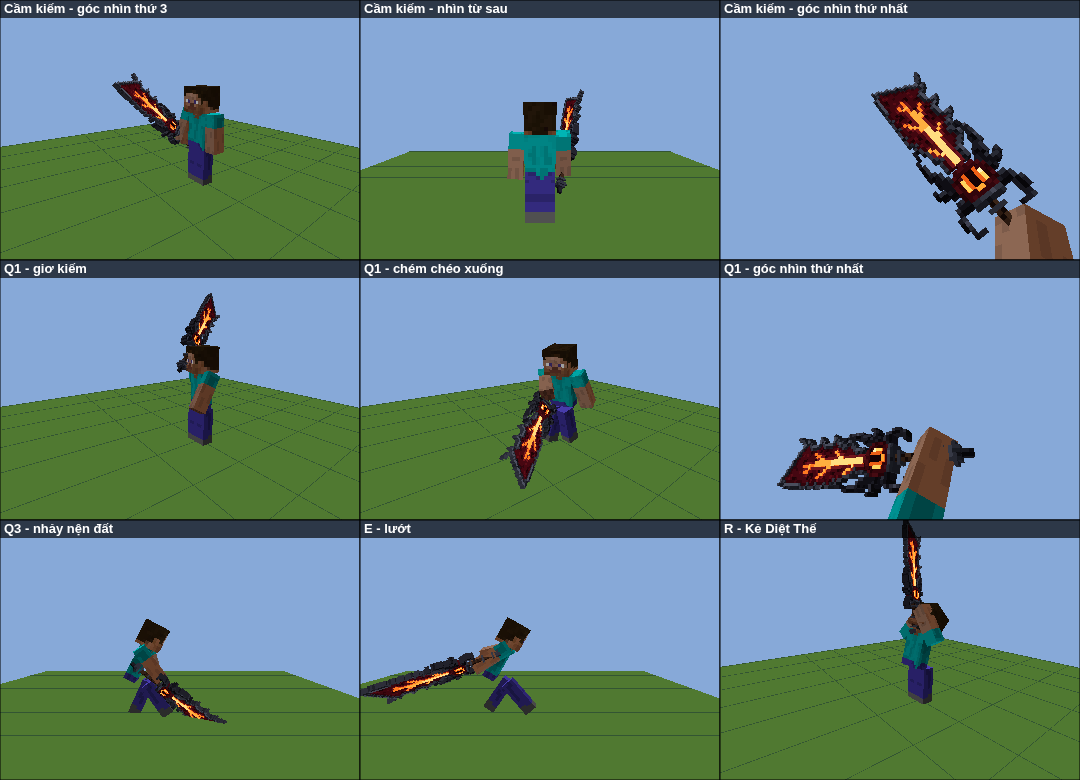
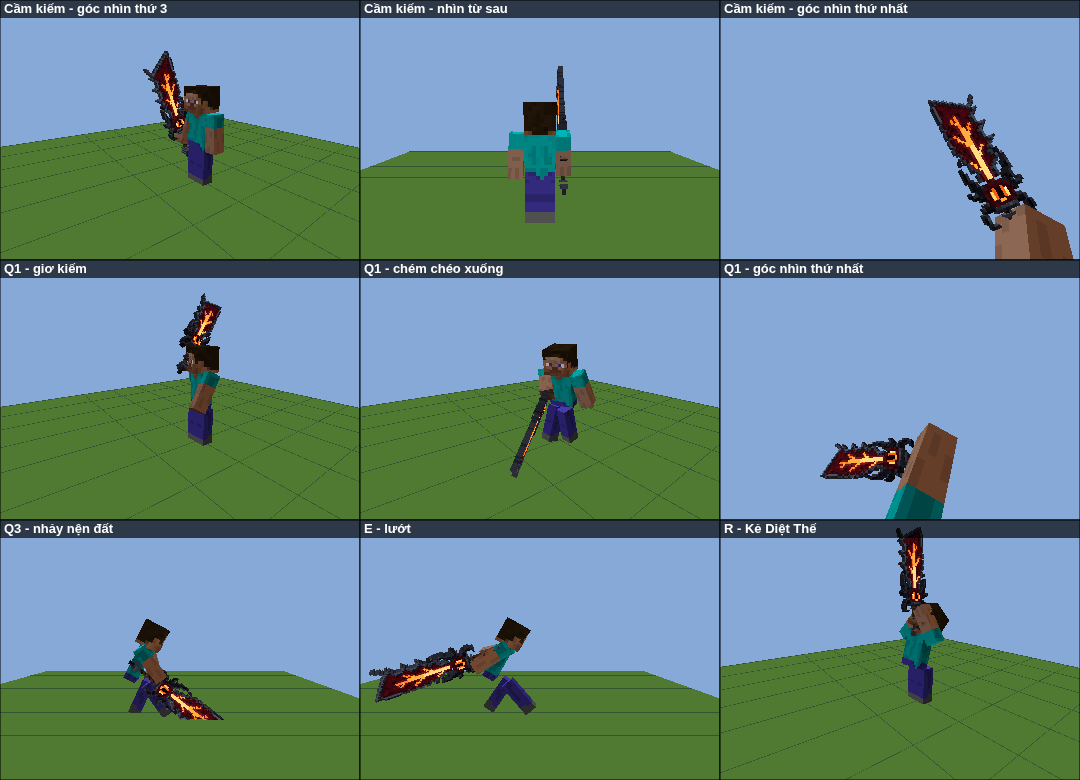
Shrink first-person sword and hold third-person sword upright
First person: scale 0.45 -> 0.28 and a more upright blade so the sword sits
in the lower-right corner instead of covering the view. Third person: blade
raised to ~70 degrees with the flat facing sideways instead of the diagonal
outward tilt. Skill animations are re-solved from the new holds; packs
bumped to 1.5.0.

Claude-Session: https://claude.ai/code/session_01AmBEWBtqs1D5DkXsgcur4r

diff --git a/bedrock/README.md b/bedrock/README.md
@@ -34,8 +34,8 @@ Dung nham và mắt là một lớp riêng vẽ bằng material `entity_emissive
 
 ![Cầm kiếm và animation chiêu](preview_animation.png)
 
-- **Cầm kiếm:** tay nắm đúng chuôi kiếm, lưỡi chếch lên phía trước (giống cách cầm kiếm thường của Minecraft), dài xấp xỉ chiều cao nhân vật.
-  Góc nhìn thứ nhất: kiếm nằm góc phải dưới, lưỡi chéo lên, thấy rõ mắt và dòng dung nham mà không che tâm ngắm.
+- **Cầm kiếm:** tay nắm đúng chuôi kiếm, lưỡi gần như dựng thẳng, hơi nghiêng về trước, dài xấp xỉ chiều cao nhân vật.
+  Góc nhìn thứ nhất: kiếm nhỏ gọn ở góc phải dưới, lưỡi dựng lên, không che màn hình.
 - **Animation khi dùng chiêu** (cả người xung quanh lẫn chính bạn đều thấy):
   - **Q1** giơ kiếm qua vai rồi chém chéo xuống, **Q2** quét ngang từ phải sang trái, **Q3** nhảy lên hai tay giơ kiếm rồi nện xuống đất
   - **E** lao người về trước, kiếm kéo lê phía sau
@@ -50,7 +50,7 @@ Dung nham và mắt là một lớp riêng vẽ bằng material `entity_emissive
 
 Sau đó tạo/sửa thế giới → **Behavior Packs** → bật *Aatrox - Quỷ Kiếm Darkin (BP)* (Resource Pack sẽ tự bật theo).
 
-> **Đã cài bản cũ?** Bản này là **v1.4.0**. Trong thế giới, gỡ pack cũ ra rồi bật lại bản 1.4.0.
+> **Đã cài bản cũ?** Bản này là **v1.5.0**. Trong thế giới, gỡ pack cũ ra rồi bật lại bản 1.5.0.
 > Nếu vẫn thấy kiếm cầm như cây thương hoặc không có animation, vào **Cài đặt → Bộ nhớ** xoá hết pack Aatrox cũ rồi nhập lại file `.mcaddon`.
 
 Lấy kiếm:
@@ -132,7 +132,7 @@ Có thể mở các file `.geo.json` bằng Blockbench để chỉnh tay.
 **Tư thế cầm kiếm** nằm trong [`AatroxRP/animations/darkin_blade.animation.json`](AatroxRP/animations/darkin_blade.animation.json).
 Model attachable được gắn sao cho điểm `(0, 24, 0)` của model nằm ở bàn tay (đã kiểm chứng bằng model đinh ba, khiên, ống nhòm gốc),
 và tâm tay cầm của kiếm đặt đúng điểm này, nên `position` chỉ dịch nhẹ vào lòng bàn tay, `rotation` là hướng kiếm, `scale` là độ lớn
-(góc nhìn thứ 3: 0.5, góc nhìn thứ nhất: 0.45).
+(góc nhìn thứ 3: 0.5, góc nhìn thứ nhất: 0.28).
 
 **Animation chiêu** sinh từ [`player_anims.py`](player_anims.py) ra `AatroxRP/animations/aatrox_player.animation.json`, script phát bằng `playAnimation`:
 - góc nhìn thứ 3: độ xoay/dịch cộng thêm cho các bone của người chơi, cộng với hướng lưỡi kiếm mong muốn (cổ tay được giải ngược cho đúng hướng)
